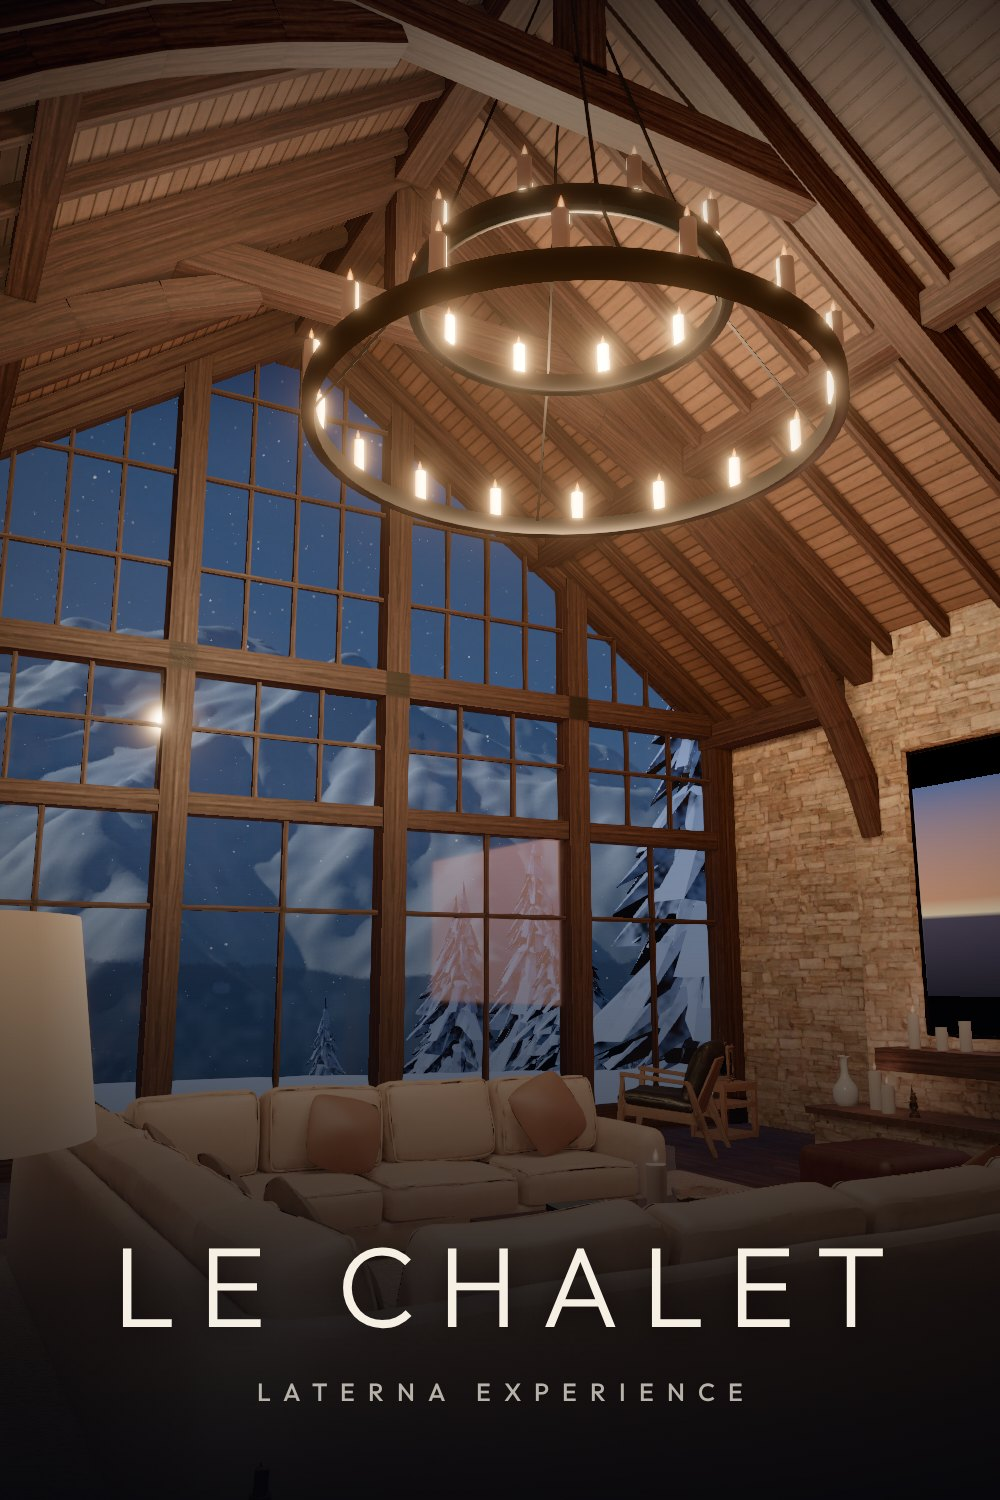
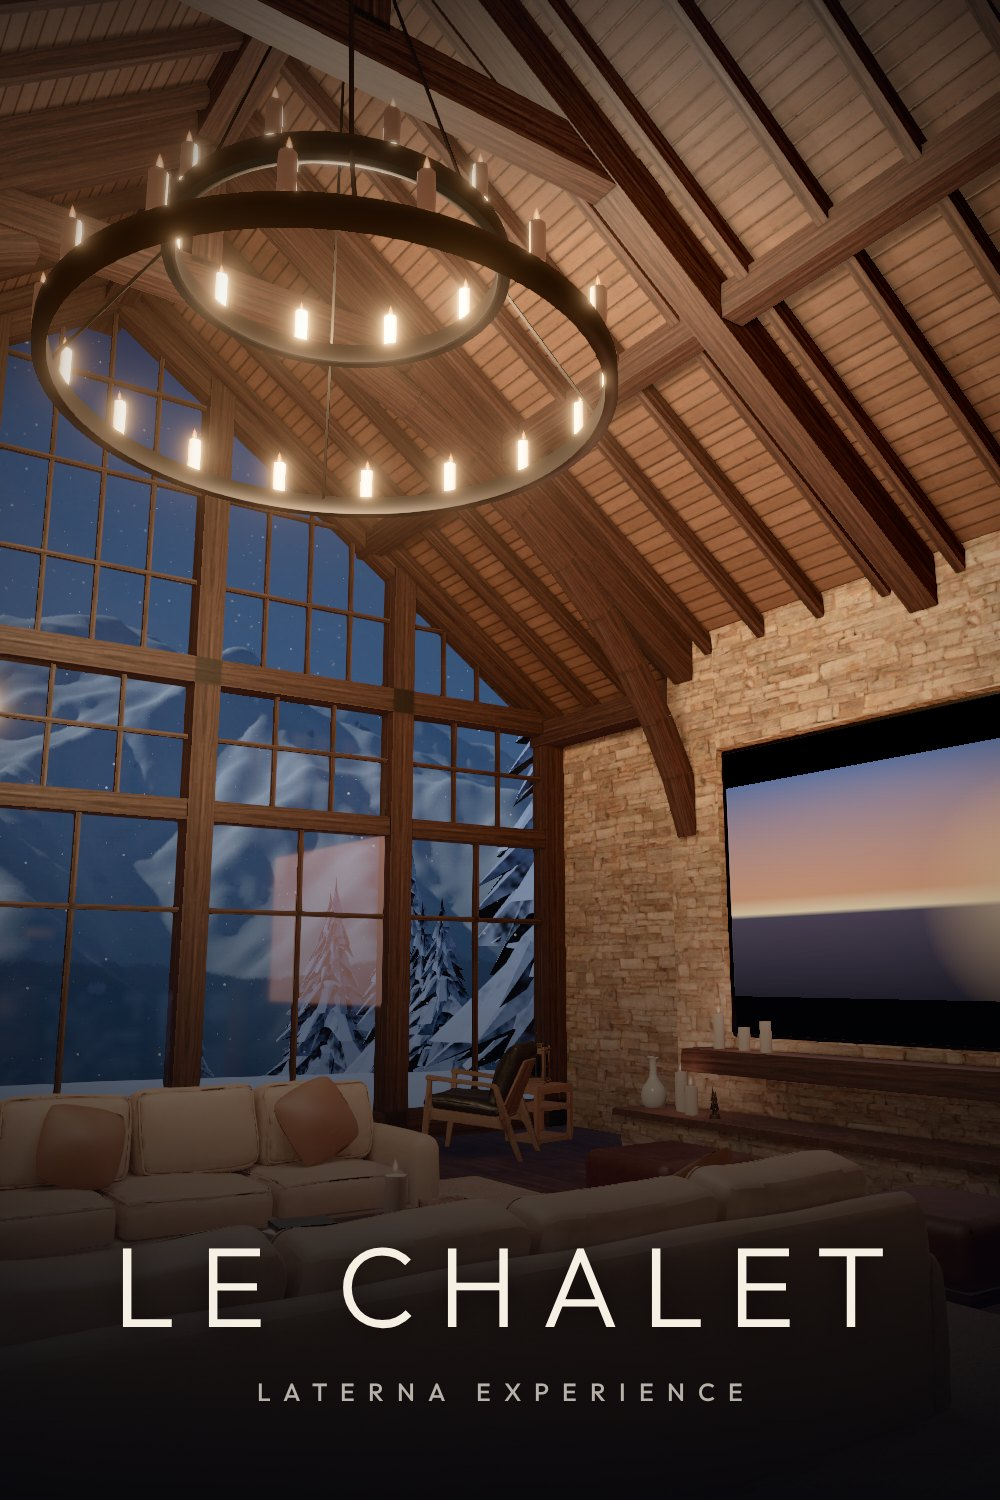
Immersion : affiche recadrée (écran allumé), journal — portail vert sur cet arbre, défaut des coutures du canapé noté
Claude-Session: https://claude.ai/code/session_01HUPsanZ1qmjWvVz5RvGZPR

diff --git a/immersion/PROGRESS.md b/immersion/PROGRESS.md
@@ -323,6 +323,21 @@ modèle du canapé ; script de cuisson des lightmaps. L'architecture et le rendu
    Si rien de cela n'a tourné (processus coupés) : relancer `sh tools/apres-cuisson.sh` depuis `immersion/`
    après `tools/bake/bake.sh --samples 192 --exposure -1.5`.
 
+### Reprise de 19 h 18 — la chaîne est allée au bout
+
+- `logs/suite.log` : cuisson `exit=0`, build, 17 captures, affiche, et **portail VERT au premier essai**
+  (`logs/gate-1.log`, 845 fichiers, `exit=0`) sur le commit `ecffedc8` de la branche (application + lightmaps
+  comprises) : l'avertissement « sans portail vert » ci-dessous est levé pour cet arbre. Il reste à le refaire
+  sur l'arbre **rebasé** avant la fusion.
+- Affiche : la version recadrée (écran allumé visible) est retenue et commitée dans `public/poster.jpg`.
+- Vu sur `captures/` : salon, entrée et affiche bons avec la lumière cuite. **Défaut à corriger : le canapé
+  montre des traits sombres en pointillé le long des coutures** (`captures/canape.jpg`) — texels de la lightmap
+  `sofa` cuits noirs dans le creux du passepoil. Piste : dilater les clairs de `assets-src/bake/work/sofa.png`
+  (filtre « maximum » 5×5) avant l'encodage KTX2, dans `tools/bake/` pour que ce soit reproductible ; à défaut,
+  ne pas poser de lightmap sur le canapé (`Sofa.tsx`).
+- Pas encore regardées : `cuisine`, `ilot`, `escalier`, `mezzanine`, `balcon`, `couloir`, `chambre`, `lit`,
+  `vallee`, `ouest`, `reglages`.
+
 ### Où on en est
 
 - Poussé : la branche `immersion` sur `origin` (rien sur `main`, rien de déployé).
